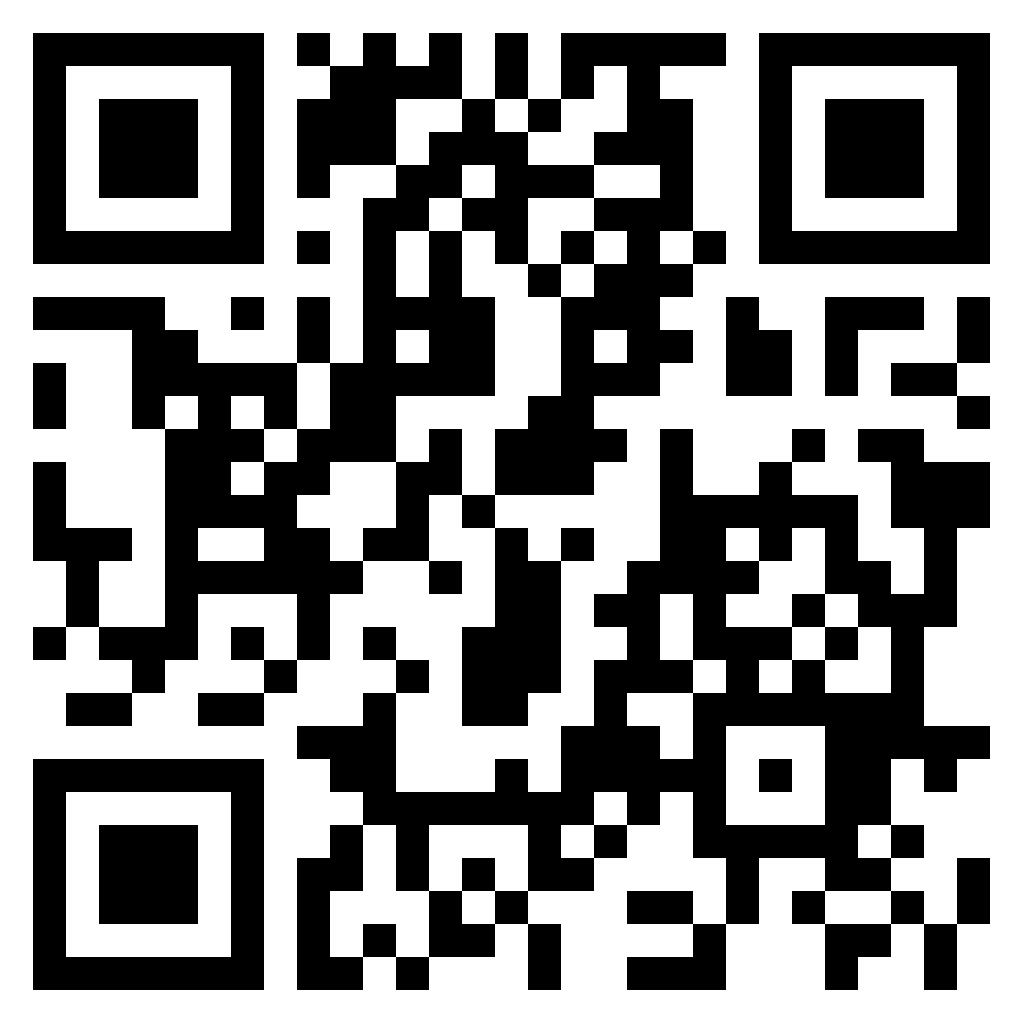
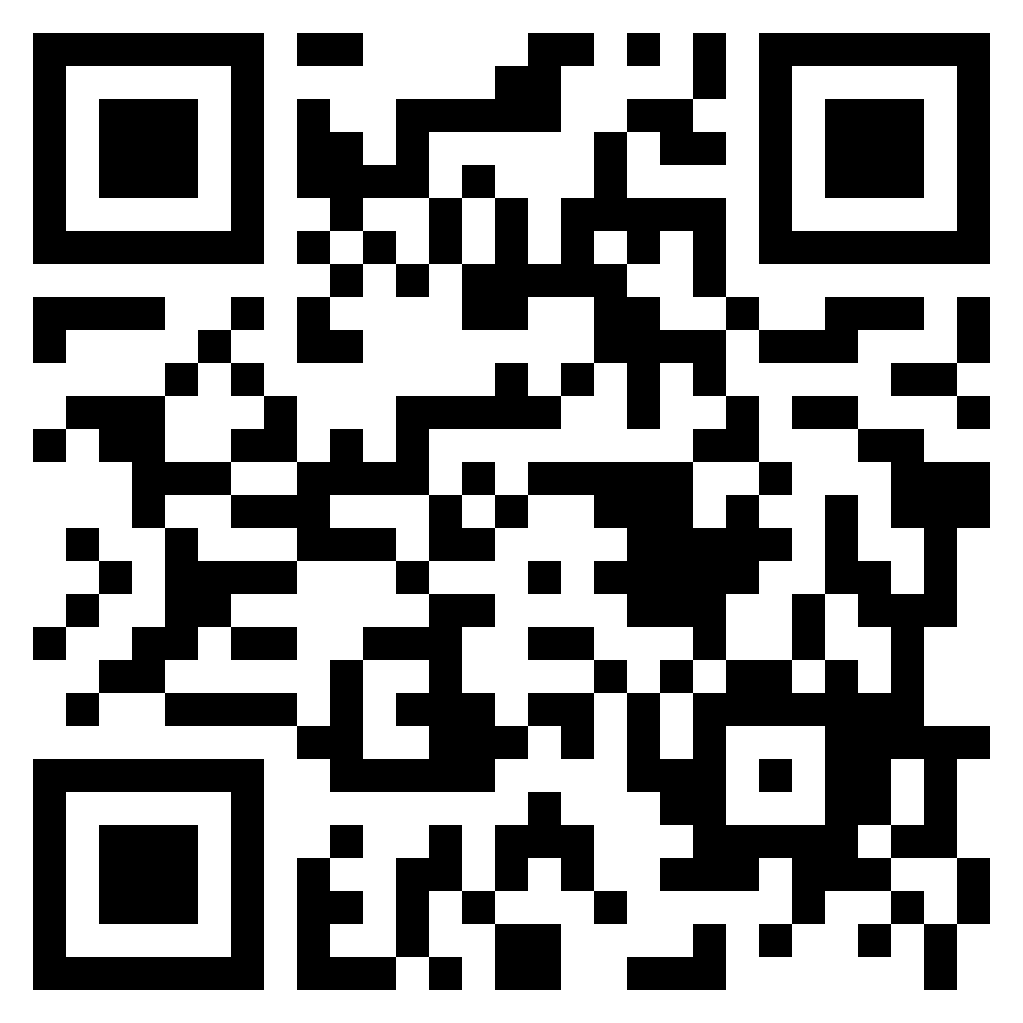
GITBOOK-63: No subject

Changed region(s): [[0.0303, 0.0303, 0.8485, 0.9697], [0.697, 0.6061, 0.8485, 0.697], [0.8788, 0.7576, 0.9394, 0.8485]]

diff --git a/SUMMARY.md b/SUMMARY.md
@@ -44,3 +44,7 @@
 * [拍攝連續照片](timelaspe/continuous\_images.md)
 * [將相片轉換成影片](timelaspe/convert\_to\_video.md)
 * [清除所有相片](timelaspe/clear\_images.md)
+
+## 其他 <a href="#others" id="others"></a>
+
+* [問卷](others/evaluation.md)

diff --git a/others/evaluation.md b/others/evaluation.md
@@ -1,0 +1,3 @@
+# 問卷
+
+<figure><img src="../.gitbook/assets/image (1).png" alt=""><figcaption></figcaption></figure>
